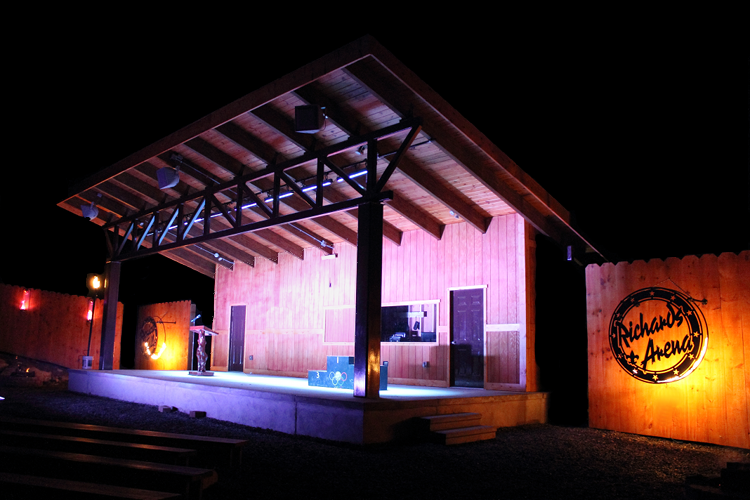
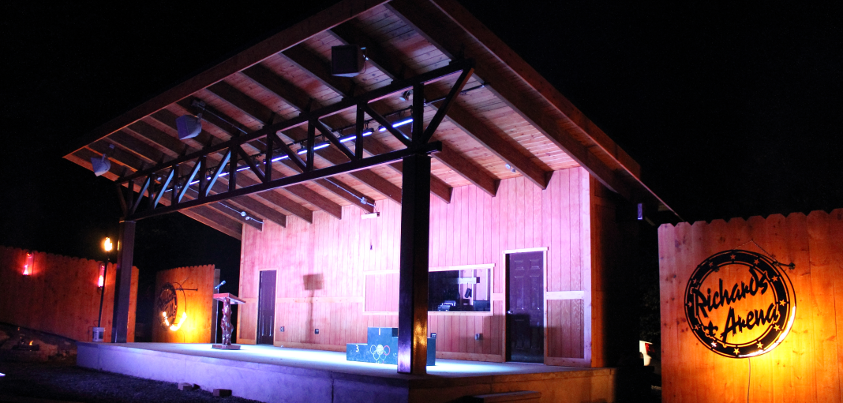
Updated slider pictures

diff --git a/index.html b/index.html
@@ -87,13 +87,13 @@
                         <!-- Wrapper for slides -->
                         <div class="carousel-inner">
                             <div class="item active">
-                                <img class="img-responsive img-full" src="img/slide-1.jpg" alt="">
+                                <img class="img-responsive img-full" src="img/arena.png" alt="">
                             </div>
                             <div class="item">
-                                <img class="img-responsive img-full" src="img/slide-2.jpg" alt="">
+                                <img class="img-responsive img-full" src="img/profile-picture.png" alt="">
                             </div>
                             <div class="item">
-                                <img class="img-responsive img-full" src="img/slide-3.jpg" alt="">
+                                <img class="img-responsive img-full" src="img/resica.png" alt="">
                             </div>
                         </div>
 
